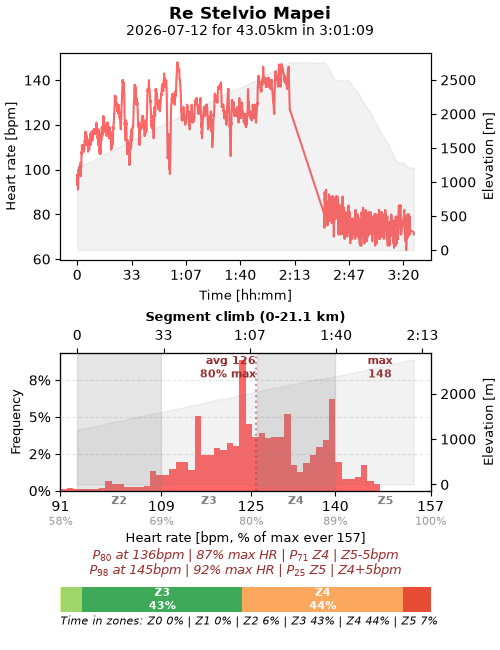
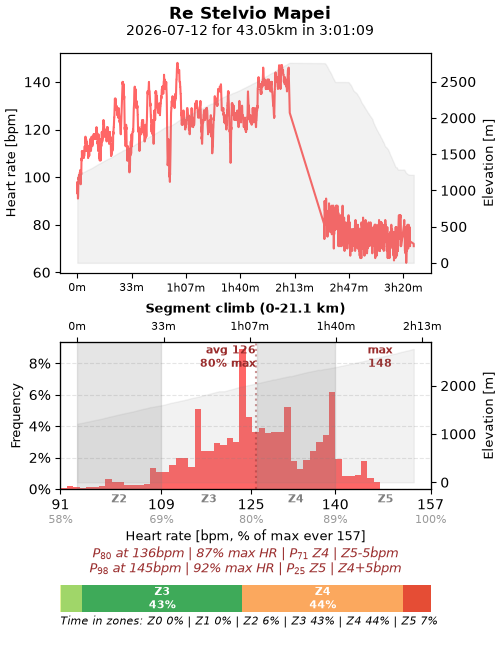
chore(sport-analysis): better time format in plot-climb-ride

diff --git a/projects/sport-analysis/sport_analysis/plot/plot_run_api/plot_simple_run_api_cmd.py b/projects/sport-analysis/sport_analysis/plot/plot_run_api/plot_simple_run_api_cmd.py
@@ -143,7 +143,7 @@ class PlotSimpleRunApiCmd(base_api.MixinGarminRequestsApi, base_plot.MixinHrPlot
         # X and y data.
         xdata_distance = self._s[0].details_resp.get_distance_stream()
         # Time stream required later on when building ticks for the x axis.
-        _time_stream = self._s[0].details_resp.get_moving_time_stream()
+        _moving_time_stream = self._s[0].details_resp.get_moving_time_stream()
         # Y data should be the moving average of the PACE, computed from the speed.
         _speed_stream = self._s[0].details_resp.get_speed_stream(
             do_remove_none_values=False
@@ -498,9 +498,12 @@ class PlotSimpleRunApiCmd(base_api.MixinGarminRequestsApi, base_plot.MixinHrPlot
                     #  an exact distance match, but th eindex of the first value >=2000m).
                     try:
                         if ix > 0:
-                            time = round((_time_stream[ix] + _time_stream[ix - 1]) / 2)
+                            time = round(
+                                (_moving_time_stream[ix] + _moving_time_stream[ix - 1])
+                                / 2
+                            )
                         else:
-                            time = round(_time_stream[ix])
+                            time = round(_moving_time_stream[ix])
                     except IndexError:
                         continue
                 time_str = datetime_utils.seconds_to_hh_mm(

diff --git a/projects/sport-analysis/sport_analysis/plot/plot_ride_api/plot_climb_ride_api_cmd.py b/projects/sport-analysis/sport_analysis/plot/plot_ride_api/plot_climb_ride_api_cmd.py
@@ -173,14 +173,20 @@ class PlotClimbRideApiCmd(base_api.MixinGarminRequestsApi, base_plot.MixinHrPlot
             mpl.ticker.FuncFormatter(
                 # Set ticks label as hh:mm.
                 lambda x, pos: datetime_utils.seconds_to_hh_mm(
-                    x, do_hide_hours_and_mins_if_zero=True
+                    x,
+                    do_hide_hours_and_mins_if_zero=True,
+                    do_not_use_colon_but_letters=True,
                 )
-            )
+            ),
         )
+        # Tick labels smaller.
+        for ticks in a0.xaxis.get_major_ticks():
+            ticks.label1.set_fontsize(8)
+            # ticks.label1.set_alpha(0.4)
 
         ## Format.
         # Axes labels.
-        a0.set_xlabel("Time [hh:mm]", fontsize=9)
+        # a0.set_xlabel("Time [hh:mm]", fontsize=9)  # No need, it's clear.
 
     def _plot_hr_histogram(self):
         hr_stream = self._s[0].details_resp.get_heartrate_stream(

diff --git a/projects/sport-analysis/sport_analysis/plot/base_plot.py b/projects/sport-analysis/sport_analysis/plot/base_plot.py
@@ -396,10 +396,16 @@ class MixinHrPlot(BasePlot):
                 mpl.ticker.FuncFormatter(
                     # Set ticks label as hh:mm.
                     lambda x, pos: datetime_utils.seconds_to_hh_mm(
-                        x, do_hide_hours_and_mins_if_zero=True
+                        x,
+                        do_hide_hours_and_mins_if_zero=True,
+                        do_not_use_colon_but_letters=True,
                     )
-                )
+                ),
             )
+            # Tick labels smaller.
+            for ticks in atwiny.xaxis.get_major_ticks():
+                ticks.label2.set_fontsize(8)
+                # ticks.label1.set_alpha(0.4)
 
         ## SECONDARY activities.
         if secondary_hr_streams is None:

diff --git a/libs/garmin-connect-client/docs/activity summary.md b/libs/garmin-connect-client/docs/activity summary.md
@@ -1,3 +1,14 @@
+Note: how to interpret duration:
+    **DURATION**: the total time that the device's internal timer was actively recording.
+      It excludes the time when I manually paused the watch, and when the watch was
+       auto-paused (if such feat was enabled).
+    **MOVING DURATION**: the actual and precise moving time, calculated with 
+      post-provessing of the GPS coords.
+      It excludes the time when I manually paused the watch, and when the watch was
+       auto-paused (if such feat was enabled), and when I was (almost) steady but
+       my watch was not auto-paused.
+    **ELAPSED DURATION**: wall-clock from start to end of the activity.
+
 ```py
 summary = garmin.get_activity(18923007987)
     
@@ -96,6 +107,17 @@ summary = garmin.get_activity(18923007987)
         "startLatitude": 45.6090556550771,
         "startLongitude": 9.61661584675312,
         "distance": 9621.27,
+
+    # **DURATION**: the total time that the device's internal timer was actively recording.
+    #   It excludes the time when I manually paused the watch, and when the watch was
+    #    auto-paused (if such feat was enabled).
+    # **MOVING DURATION**: the actual and precise moving time, calculated with 
+    #   post-provessing of the GPS coords.
+    #   It excludes the time when I manually paused the watch, and when the watch was
+    #    auto-paused (if such feat was enabled), and when I was (almost) steady but
+    #    my watch was not auto-paused.
+    # **ELAPSED DURATION**: wall-clock from start to end of the activity.
+    
         "duration": 3951.354,
         "movingDuration": 3598.523,
         "elapsedDuration": 4060.752,

diff --git a/projects/sport-analysis/TODO.md b/projects/sport-analysis/TODO.md
@@ -1,16 +1,28 @@
 
-- In climb-ride cambia formato 1:07 a 1h07m
+- in plot-simple-run voglio elapsed time o moving time?
+Note: how to interpret duration:
+    **DURATION**: the total time that the device's internal timer was actively recording.
+      It excludes the time when I manually paused the watch, and when the watch was
+       auto-paused (if such feat was enabled).
+    **MOVING DURATION**: the actual and precise moving time, calculated with 
+      post-provessing of the GPS coords.
+      It excludes the time when I manually paused the watch, and when the watch was
+       auto-paused (if such feat was enabled), and when I was (almost) steady but
+       my watch was not auto-paused.
+    **ELAPSED DURATION**: wall-clock from start to end of the activity.
 
 - Usa path_effects in tutte le scritte che possono sovrapporsi come fatto per
    avg in plot_simple_run_api_cmd.py linea 378
 
 - evidenziare le domande in questionary?
 
-- default: LATEST in tutte le activity-id di questionary?
-
 - Infine usa il nuovo ACTIVITY_ID_PARAM_TYPE in tutti i comandi che ora usano LATEST
   (cioè i comandi plot, facendo attenz che plot-run deve supportare solo LATEST-RUN
    e non LATEST-RIDE)
+  E usa default: LATEST in tutte le activity-id di questionary?
+
+- darker colors for HR zones in plot-simple-run?
+  Colors are in plot.base_plot.MixinHrPlot._plot_hr_zones_mixin
 
 - move base_plot.make_png_file_path() to utils/file_system_utils
 
